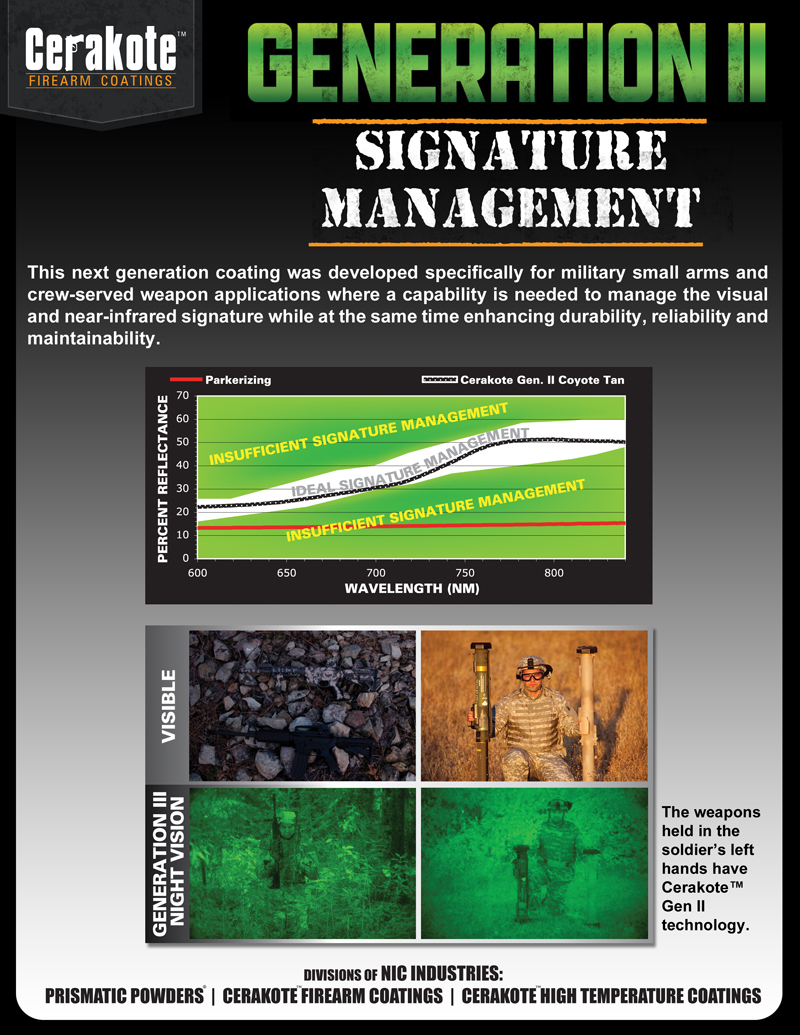
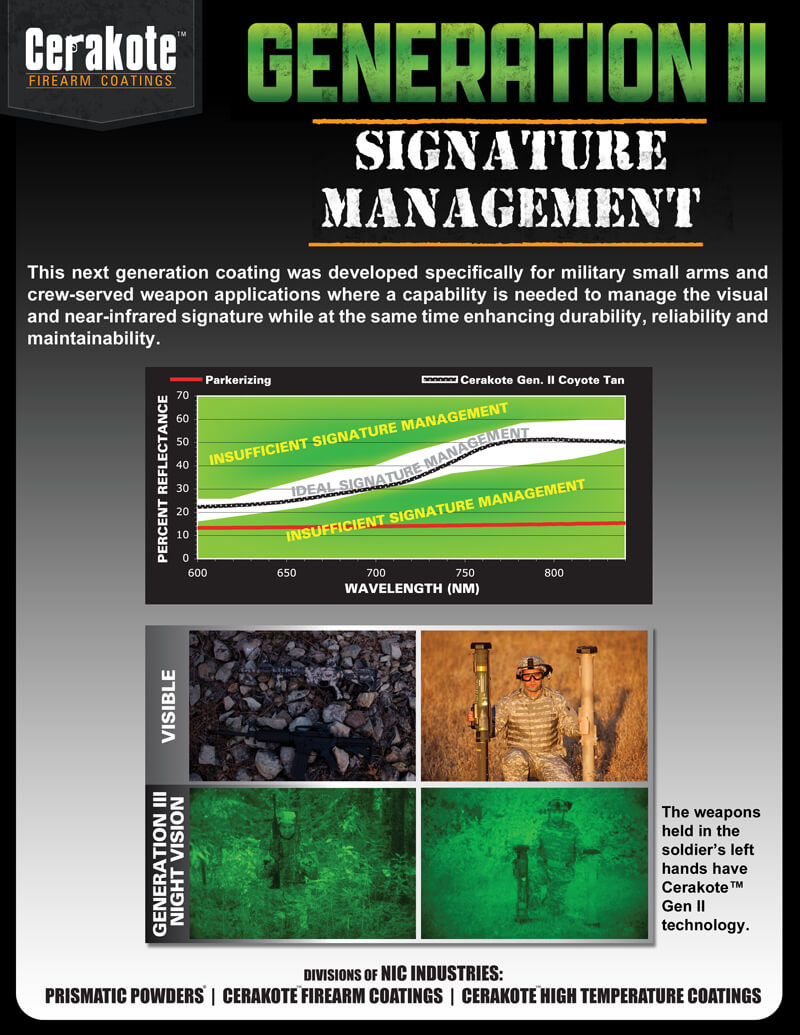
image optimization

diff --git a/nextjs-app/src/components/Footer/index.tsx b/nextjs-app/src/components/Footer/index.tsx
@@ -88,7 +88,7 @@ const Footer: React.FC = () => {
   </div>
 
 
-    <div className="p-8" style={{ backgroundImage: `url('/nextjs_images/backgrounds/footer-col-bg.png')` }}>
+    <div className="p-8" style={{ backgroundImage: `url('/nextjs_images/backgrounds/footer-col-bg.webp')` }}>
       <h3 className="font-bold text-lg mb-4 text[#d7dfe3ff] ">Popular </h3>
       <ul className="text-[#d7dfe3ff]">
   {/* For each list item, directly use the Link component without nested <a> tags */}
